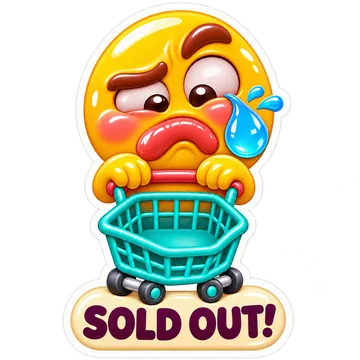
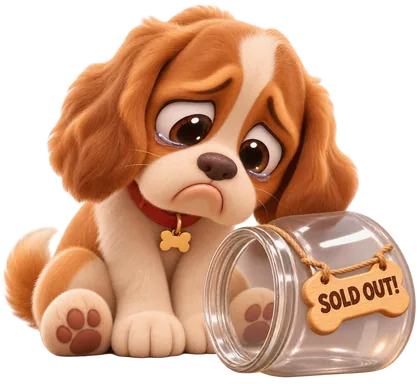
Sold-out puppy illustration replaces the emoji sticker
Claude-Session: https://claude.ai/code/session_01KduVNt6rvCCqbkPQpzHBb3

diff --git a/web/index.html b/web/index.html
@@ -54,12 +54,12 @@
 /* sold-out sticker */
 .so-card{display:flex;flex-direction:column;align-items:center;text-align:center;gap:6px;padding:22px 18px 24px;background:#fff;border:1px solid #E7ECE2;border-radius:22px;box-shadow:0 6px 18px rgba(29,65,7,.06)}
 .u-card>.so-card{border:0;box-shadow:none;padding:10px 6px 14px;background:none}
-.so-card img{width:168px;height:168px;object-fit:contain;filter:drop-shadow(0 10px 16px rgba(120,70,0,.18));margin-bottom:4px}
+.so-card img{width:200px;height:auto;aspect-ratio:1.1;object-fit:contain;filter:drop-shadow(0 10px 16px rgba(120,70,0,.16));margin-bottom:4px}
 .so-card b{display:block;font:600 18px/1.3 "Poppins",sans-serif;color:var(--x9,#132D04)}
 .so-card span{display:block;font-size:14px;line-height:1.5;color:#6b7a62;max-width:30em}
 .so-card .btn{margin-top:10px}
 .so-inline{display:inline-flex;align-items:center;gap:12px;background:rgba(255,255,255,.95);border-radius:18px;padding:8px 16px 8px 8px;color:#132D04}
-.so-inline img{width:64px;height:64px;object-fit:contain}
+.so-inline img{width:76px;height:68px;object-fit:contain}
 .so-inline b{display:block;font:700 17px "Poppins",sans-serif;color:#5A1640}.so-inline span{display:block;font-size:13px;color:#5d6b55}
 </style>
 <title>Tafiki Investor Platform</title>
@@ -2699,7 +2699,7 @@ function returnEngine(){
  <p class="note" style="text-align:center">Model figures per mart. Targets, not guaranteed.</p>
 </div>`;}
 
-const SOLD_IMG='img/sold-out.webp';
+const SOLD_IMG='img/sold-out.webp?v=2';
 const soldOut=(t,sub,cta)=>`<div class="so-card"><img src="${SOLD_IMG}" alt="Sold out" width="180" height="180" loading="lazy"><b>${t}</b><span>${sub}</span>${cta||''}</div>`;
 function fundingSlides(id){
  const fs=S.stores.filter(s=>s.stage==='funding'&&freeSlots(s)>0).sort((a,b)=>taken(b)-taken(a));
